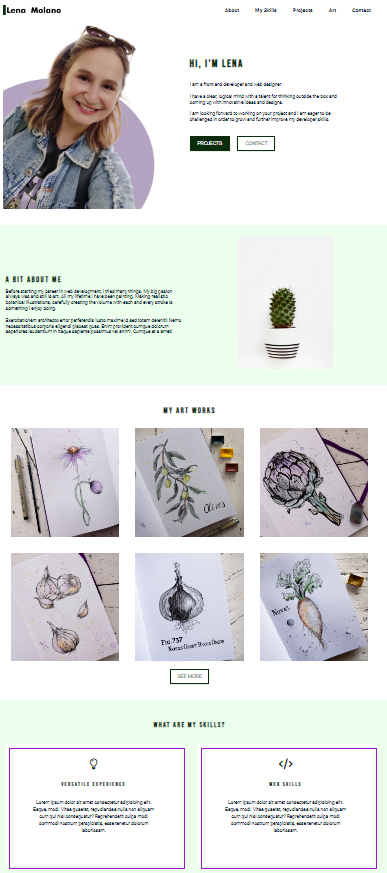
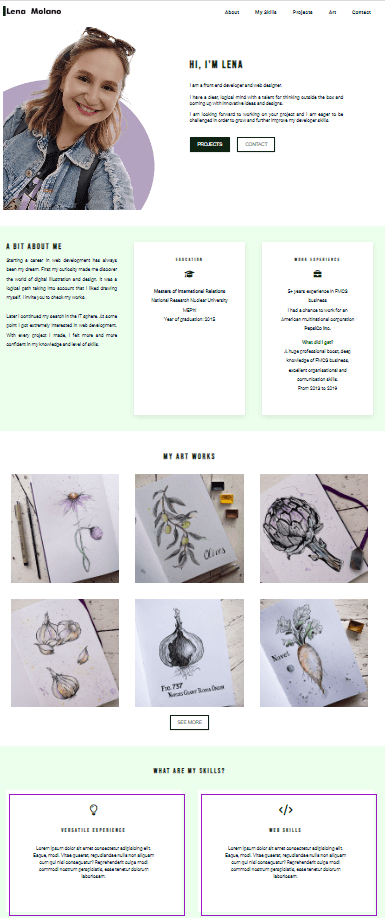
changed size of img-s and add a cross to a navbar

diff --git a/index.html b/index.html
@@ -22,6 +22,13 @@
             <button type="button" class="nav-toggle" id="nav-toggle">
               <i class="fas fa-bars"></i>
             </button>
+            <button
+              type="button"
+              class="nav-toggle-close"
+              id="nav-toggle-close"
+            >
+              <i class="fa-solid fa-x"></i>
+            </button>
           </div>
           <!-- end of nav header -->
           <ul class="nav-links" id="nav-links">
@@ -60,7 +67,11 @@
     <section class="about-section">
       <!-- Hero image -->
       <div class="hero-img-container section-1">
-        <img src="./images/photo-of-me-purple.png" alt="img" class="hero-img" />
+        <img
+          src="./images/photo-of-me-purple-small.png"
+          alt="img"
+          class="hero-img"
+        />
       </div>
       <!-- About -->
       <div class="about-container section-1">
@@ -297,11 +308,9 @@
               <br />
               Color combination is inspired by my two favotite colors.
             </p>
-            <button class="btn btn-section-2">
-              <a href="#home" id="#home" class="section-2-button"
-                >visit website</a
-              >
-            </button>
+            <a href="#home" id="#home" class="section-2-button"
+              ><button class="btn btn-section-2">visit website</button></a
+            >
           </div>
           <div class="project-1-container project-img">
             <img

diff --git a/main.css b/main.css
@@ -130,6 +130,10 @@ h4 {
   cursor: pointer;
 }
 
+.nav-header{
+  position: relative;
+}
+
 .nav-toggle {
   background: transparent;
   border: transparent;
@@ -139,9 +143,29 @@ h4 {
   transition: var(--transition);
 }
 
-.nav-toggle:hover {
-  transform: scale(1.5);
+
+.nav-toggle-close{
+  background: transparent;
+  border: transparent;
+  font-size: 1.5rem;
+  color: var(--clr-primary-5);
+  cursor: pointer;
+  position: absolute;
+  right: 17px;
+  top: 19px;
+  opacity: 0;
+  transition: var(--transition);
 }
+
+.nav-toggle:hover {
+  /* scale: 1.5; */
+  opacity: 0;
+}
+
+.nav-toggle-close:hover{
+  opacity: 1;
+}
+
 
 .nav-link {
   display: block;
@@ -170,6 +194,8 @@ h4 {
 .show-links {
   height: 280px;
 }
+
+
 
 @media screen and (min-width: 992px) {
   .navbar {
@@ -491,6 +517,7 @@ h4 {
   border: 2px solid var(--clr-primary-5);
   transition: var(--transition);
   margin-bottom: 3rem;
+  color: var(--clr-primary-5);
 }
 
 .section-2-button {
@@ -498,7 +525,7 @@ h4 {
 }
 
 .btn-section-2:hover {
-  scale: 1.2;
+  scale: 1.1;
   background: transparent;
 }
 
@@ -831,7 +858,7 @@ h4 {
   display: inline-block;
   width: 100%;
   padding: 0.75rem 1rem;
-  border: 1px solid rgb(157, 23, 198);
+  border: 1px solid var(--clr-primary-5)
 }
 
 .form-control::placeholder {
